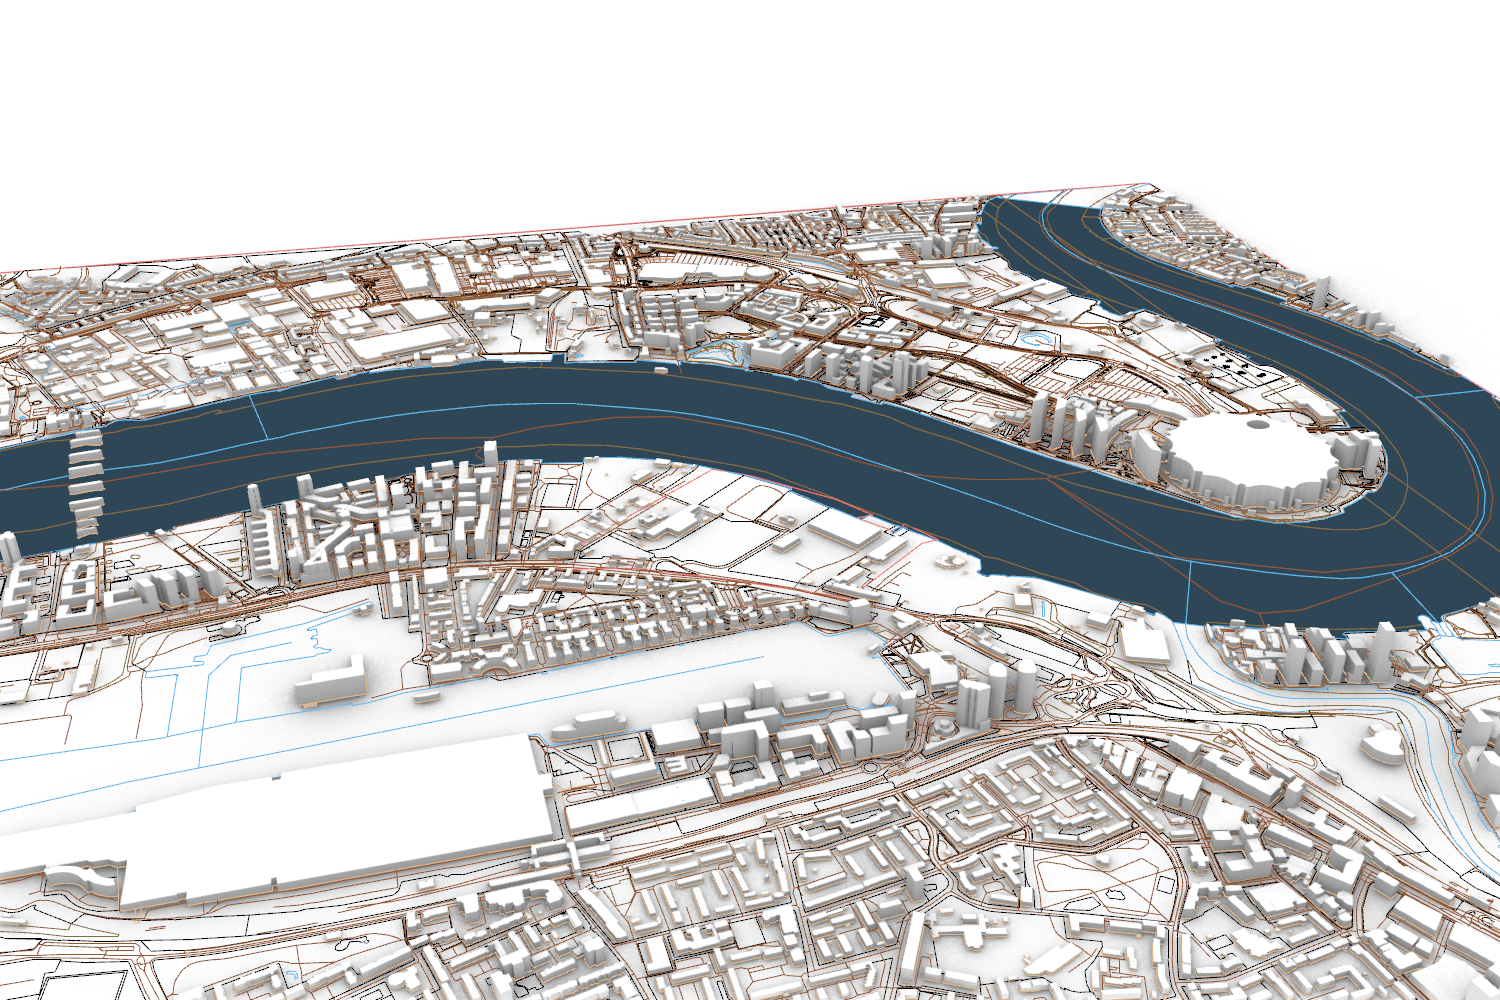
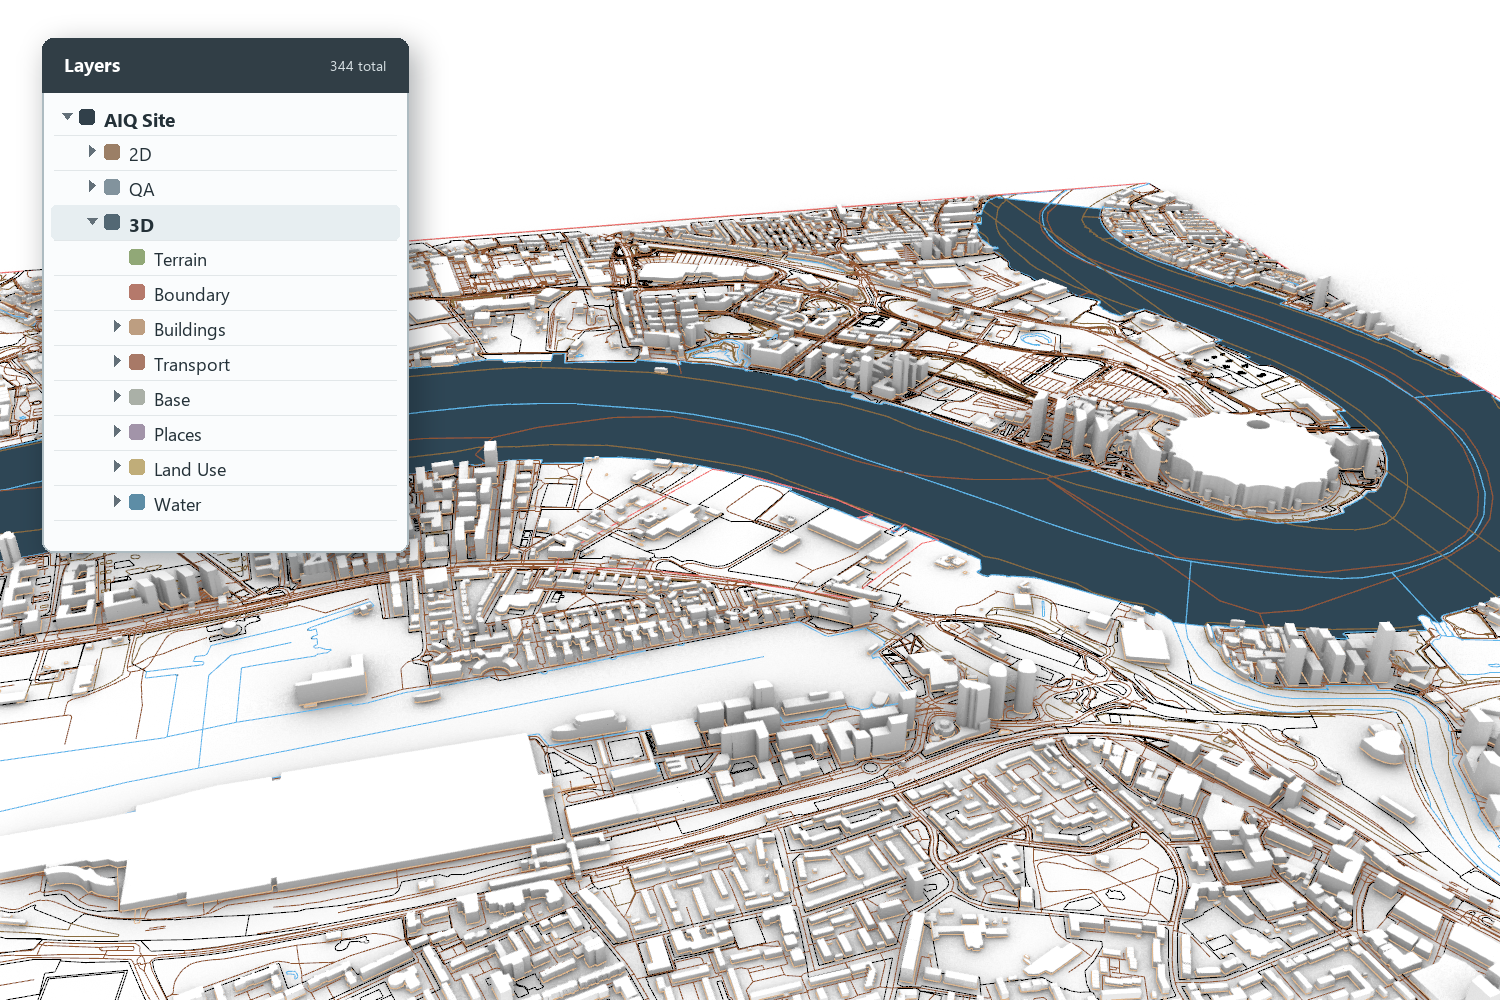
Refine README model gallery with terrain and building details

Changed region(s): [[0.0, 0.031, 0.3067, 0.589]]

diff --git a/README.md b/README.md
@@ -14,23 +14,23 @@ Then use the checked model for the map workflow:
 
 > Use Vector Site Maps to make site analysis boards from this model.
 
-## Workflow and example outputs
+## Example outputs
 
 This example uses the Thames Wharf site in Poplar, London. The site model joins mapped buildings, streets, land, water, and terrain in one `.3dm` file. It keeps the checked 2D source layers, adds 3D building volumes, and records source data and validation results.
 
-### 1. Review the Rhino site model
+### Rhino site model
 
-These close views use the same elevated Rhino camera. Layer visibility and display mode change to show each part of the model.
+The `.3dm` model has 344 layers of site data. The wide view shows the model and its main layer groups. The close views show the terrain mesh in section and building detail.
 
-![Close Rhino view of the Thames Wharf site model, with building volumes beside the river](docs/images/poplar/model-context.png)
+![Rhino view of the Thames Wharf model with its main layer groups](docs/images/poplar/model-context.png)
 
-| Building volumes and terrain | Streets, land and water with buildings hidden |
+| Terrain mesh in section | Building detail |
 | :---: | :---: |
-| [![Rhino view of building volumes and terrain](docs/images/poplar/model-buildings.png)](docs/images/poplar/model-buildings.png) | [![Rhino view of streets, land and water](docs/images/poplar/model-landscape.png)](docs/images/poplar/model-landscape.png) |
+| [![Rhino view of a cutaway from the terrain mesh](docs/images/poplar/model-terrain-section.png)](docs/images/poplar/model-terrain-section.png) | [![Close Rhino view of building volumes by the river](docs/images/poplar/model-building-detail.png)](docs/images/poplar/model-building-detail.png) |
 
-### 2. Make vector site maps
+### Vector site maps
 
-The map workflow uses one checked 2D source and one shared map frame. Each SVG contains its base map and theme artwork. The boards show figure ground, green structure, and blue structure. Select a map to open the full SVG.
+The editable SVG maps share one frame. Each map contains its base map and one theme: figure ground, green structure, or blue structure.
 
 | Figure ground | Green structure | Blue structure |
 | :---: | :---: | :---: |
